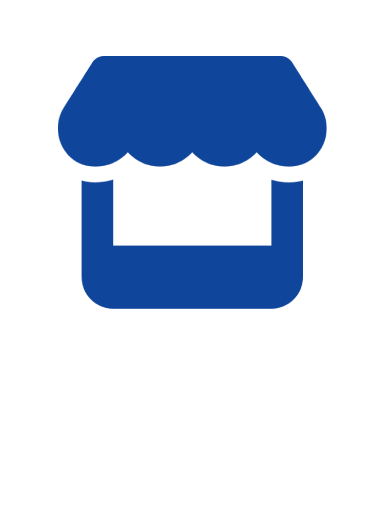
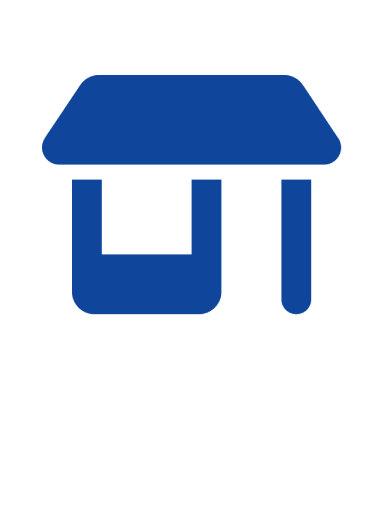
Displaying users to map

diff --git a/app/javascript/controllers/map_controller.js b/app/javascript/controllers/map_controller.js
@@ -7,8 +7,11 @@ export default class extends Controller {
     usersMarkers: Array,
     userPosition: Array
   }
+  // static targets = ["content"]
+
 
   connect() {
+    console.log(this.contentTarget)
     mapboxgl.accessToken = this.apiKeyValue
     console.log("connected to map")
 
@@ -20,6 +23,7 @@ export default class extends Controller {
     })
     this.#addUserToMap()
     this.#addMarkersToMap()
+    this.#addUsersMarkersToMap()
   }
 
   #addUserToMap() {
@@ -44,5 +48,20 @@ export default class extends Controller {
     })
   }
 
-
+  #addUsersMarkersToMap() {
+    this.usersMarkersValue.forEach((marker) => {
+      console.log("lat:", marker.lat, "lng:", marker.lng, "url:", marker.image_url)
+      const popup = new mapboxgl.Popup().setHTML(marker.info_window)
+      const customMarker = document.createElement("div")
+      customMarker.className = "marker"
+      customMarker.style.backgroundImage = `url('${marker.image_url}')`
+      customMarker.style.backgroundSize = "cover"
+      customMarker.style.width = "30px"
+      customMarker.style.height = "40px"
+      new mapboxgl.Marker(customMarker)
+        .setLngLat([ marker.lat, marker.lng ])
+        .setPopup(popup)
+        .addTo(this.map)
+    })
   }
+}

diff --git a/app/controllers/pages_controller.rb b/app/controllers/pages_controller.rb
@@ -6,16 +6,15 @@ class PagesController < ApplicationController
     @userLat = results.first.coordinates[0]
     @userLgn = results.first.coordinates[1]
 
-
     @points_of_interests = PointOfInterest.all
     # The `geocoded` scope filters only POI with coordinates
     @markers = @points_of_interests.geocoded.map do |point_of_interest|
       {
+        category: point_of_interest.category,
         lat: point_of_interest.latitude,
         lng: point_of_interest.longitude,
         info_window: render_to_string(partial: "points_of_interests/info_window", locals: { point_of_interest: point_of_interest }),
         image_url: helpers.asset_url("#{point_of_interest.category}.png")
-
       }
     end
 
@@ -24,9 +23,10 @@ class PagesController < ApplicationController
       {
         lat: user.latitude,
         lng: user.longitude,
-        info_window: render_to_string(partial: "shared/user_map_card", locals: { user: user }),
-        image_url: helpers.asset_url("#{user.photo.attached}")
+        # info_window: render_to_string(partial: "shared/user_map_card", locals: { user: user }),
+        image_url: helpers.asset_url("Bikers.png")
       }
+    end
   end
 
   private

diff --git a/app/models/user.rb b/app/models/user.rb
@@ -19,6 +19,6 @@ class User < ApplicationRecord
 
   validates :biker_status, inclusion: { in: ["untrained", "average", "in good shape", "athletic", "pro"] }, allow_nil: true
 
-  # geocoded_by :address
-  # after_validation :geocode, if: :will_save_change_to_address?
+  reverse_geocoded_by :latitude, :longitude
+  after_validation :geocode, if: :will_save_change_to_address?
 end
